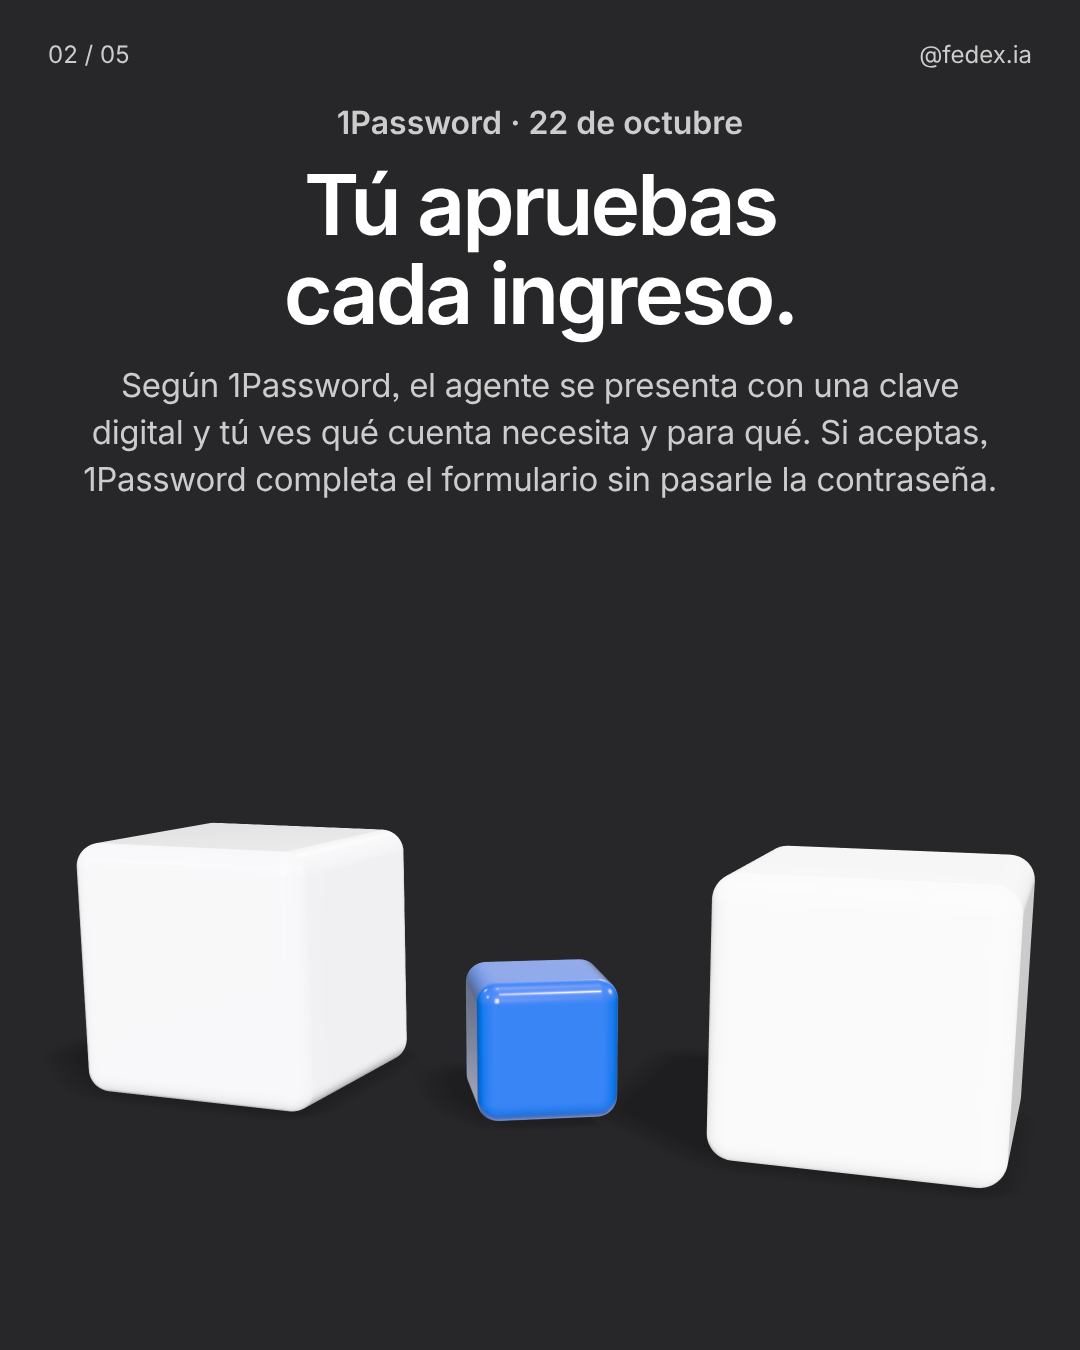
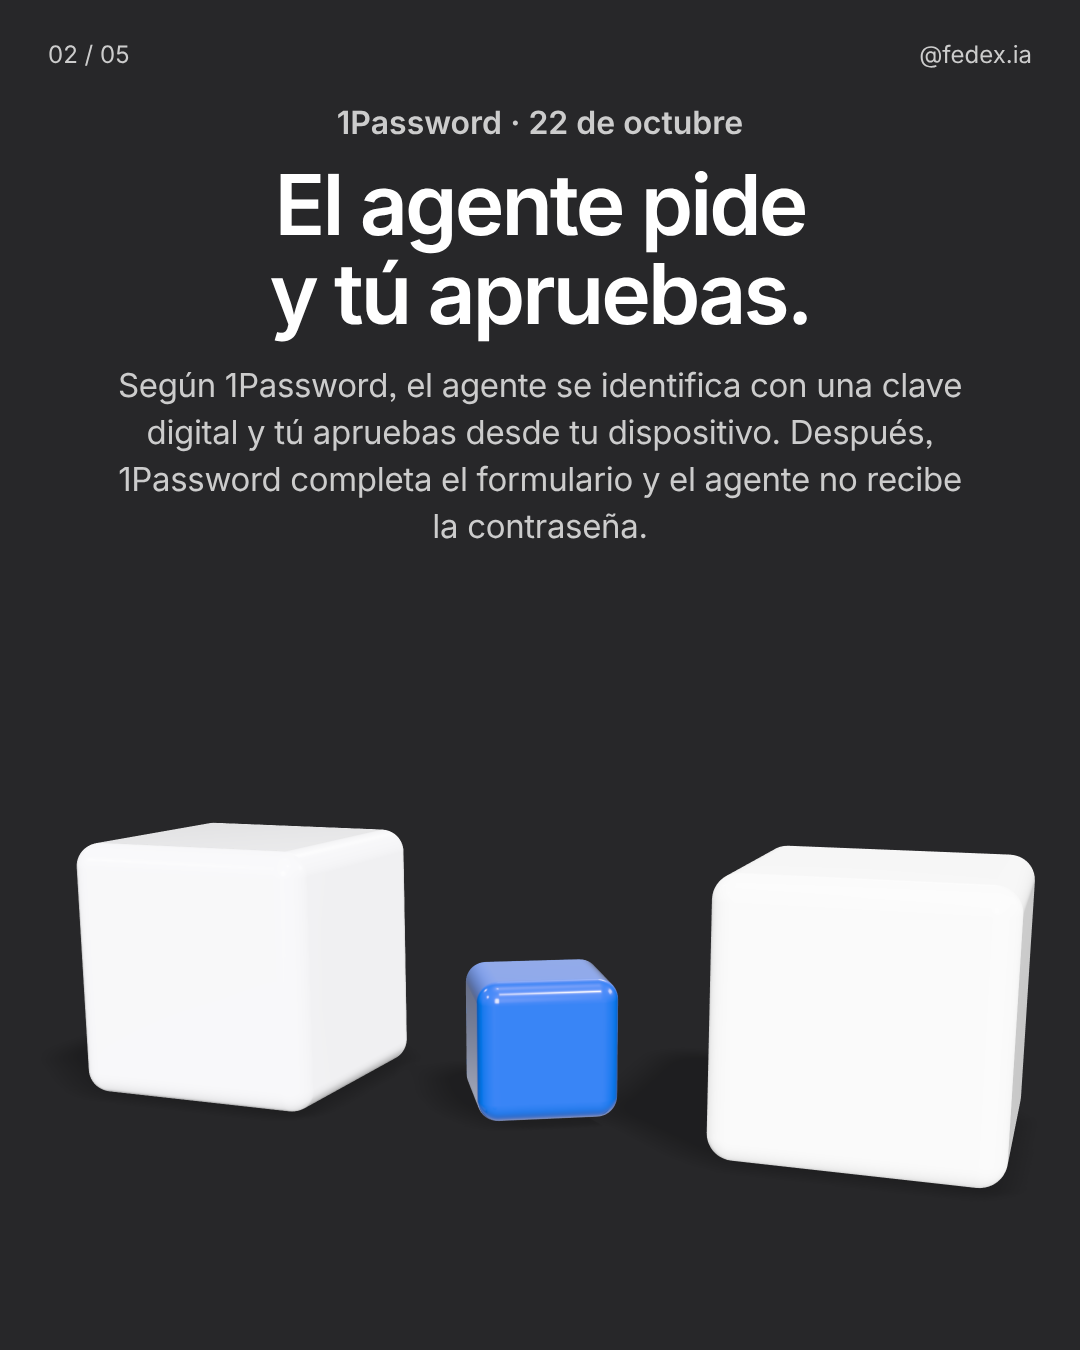
Borrador 2026-10-23: 1Password for Agents, tercera versión del carrusel
Claude-Session: https://claude.ai/code/session_01PpTkk99CTDb4RmEUrdhmY5

Changed region(s): [[0.0917, 0.1244, 0.9167, 0.4044]]

diff --git a/diario/2026-10-23-diario-1password-agentes/copy.md b/diario/2026-10-23-diario-1password-agentes/copy.md
@@ -12,33 +12,33 @@ Estado: pendiente de aprobación
 - Prensa: https://techcrunch.com/2026/10/22/1password-launches-a-way-for-ai-agents-to-log-in-on-your-behalf-without-seeing-your-password/
 
 ## Hooks
-1. Tu agente inicia sesión sin conocer tu clave.
-2. Tú apruebas cada ingreso.
+1. Agentes de IA inician sesión sin tu clave.
+2. El agente pide y tú apruebas.
 
 ## Slides
-1. Portada (fondo blanco). Eyebrow «1Password · 22 de octubre». Titular: «Tu agente inicia sesión sin conocer tu clave.» Bajada: «Lo que lanzó 1Password y lo que no aclaró.» Pastillas: «1Password for Agents» y «Desliza →».
+1. Portada (fondo blanco). Eyebrow «1Password · 22 de octubre». Titular: «Agentes de IA inician sesión sin tu clave.» Bajada: «1Password lanzó 1Password for Agents el 22 de octubre.» Pastillas: «1Password for Agents» y «Desliza →».
    - Objeto 3D: caja fuerte plateada con un disco azul al frente y una esfera perla al lado.
-   - Alt: Ilustración 3D de una caja fuerte plateada con un disco azul al lado de una esfera perla. Texto: Tu agente inicia sesión sin conocer tu clave.
-2. Qué pasó (fondo oscuro). Titular: «Tú apruebas cada ingreso.» Cuerpo: «Según 1Password, el agente se presenta con una clave digital y tú ves qué cuenta necesita y para qué. Si aceptas, 1Password completa el formulario sin pasarle la contraseña.»
+   - Alt: Ilustración 3D de una caja fuerte plateada con un disco azul al lado de una esfera perla. Texto: Agentes de IA inician sesión sin tu clave.
+2. Qué pasó (fondo oscuro). Titular: «El agente pide y tú apruebas.» Cuerpo: «Según 1Password, el agente se identifica con una clave digital y tú apruebas desde tu dispositivo. Después, 1Password completa el formulario y el agente no recibe la contraseña.»
    - Objeto 3D: dos bloques perla enfrentados con un cubo azul en el medio.
-   - Alt: Ilustración 3D de dos bloques perla enfrentados con un cubo azul en el medio. Texto: Tú apruebas cada ingreso.
-3. Disponibilidad (fondo gris). Titular: «Seis agentes, sin precio ni países.» Cuerpo: «Funciona con Muse, Claude Duet, ChatGPT Work, dots, Grok Bot y Town, y vendrán más. El anuncio no especifica en qué países está disponible, ni planes, precio o plataformas.»
+   - Alt: Ilustración 3D de dos bloques perla enfrentados con un cubo azul en el medio. Texto: El agente pide y tú apruebas.
+3. Disponibilidad (fondo gris). Titular: «Seis agentes son compatibles.» Cuerpo: «Muse, Claude Duet, ChatGPT Work, dots, Grok Bot y Town. Aún no hay un precio oficial publicado.»
    - Objeto 3D: seis cilindros en dos filas, cinco grafito y uno azul.
-   - Alt: Ilustración 3D de seis cilindros en dos filas, cinco grises y uno azul. Texto: Seis agentes, sin precio ni países.
-4. Qué significa (fondo oscuro). Titular: «Delegar sin dar tu contraseña.» Cuerpo: «Si un agente te ayuda con tus redes o tus facturas, no hace falta pegarle la clave. Antes de aceptar, mira qué cuenta pide.»
+   - Alt: Ilustración 3D de seis cilindros en dos filas, cinco grises y uno azul. Texto: Seis agentes son compatibles.
+4. Qué significa (fondo oscuro). Titular: «Delegar tareas sin pegar tu clave.» Cuerpo: «Si un agente te ayuda con tus redes o tus facturas, con este sistema no necesitas darle la contraseña. Antes de aprobar, revisa qué cuenta pide.»
    - Objeto 3D: esfera perla dentro de un marco azul sobre una base blanca.
-   - Alt: Ilustración 3D de una esfera perla dentro de un marco azul sobre una base. Texto: Delegar sin dar tu contraseña.
+   - Alt: Ilustración 3D de una esfera perla dentro de un marco azul sobre una base. Texto: Delegar tareas sin pegar tu clave.
 5. Cierre (fondo blanco). Titular: «¿A qué cuenta dejarías entrar a un agente?» Cuerpo: «Guarda el post para tenerlo cuando pruebes uno.» Pastillas: «Seguí a @fedex.ia» y «Guardar». Fuente: 1password.com.
    - Objeto 3D: marcador azul y tarjeta perla (objeto «cierre» del kit).
    - Alt: Ilustración 3D de un marcador azul junto a una tarjeta perla. Texto: ¿A qué cuenta dejarías entrar a un agente?
 
-## Caption para copiar (116 palabras + 5 hashtags)
+## Caption para copiar (122 palabras + 5 hashtags)
 ```text
-1Password presentó el 22 de octubre 1Password for Agents, pensado para que un agente de IA inicie sesión sin conocer tus claves. Según la empresa, el agente se presenta con una clave digital y tú ves qué cuenta necesita y para qué. Si aceptas desde tu dispositivo, 1Password completa el formulario y la contraseña no pasa por el agente.
+1Password lanzó el 22 de octubre 1Password for Agents, un sistema para que los agentes de IA inicien sesión en tus cuentas sin conocer tus contraseñas. Según la empresa, el agente se identifica con una clave digital y tú apruebas el acceso desde tu dispositivo. Después, 1Password completa el formulario y la contraseña no pasa por el agente.
 
-Funciona con Muse, Claude Duet, ChatGPT Work, dots, Grok Bot y Town, y la empresa promete más. No especifica en qué países está disponible, ni precio, planes o plataformas.
+Son compatibles Muse, Claude Duet, ChatGPT Work, dots, Grok Bot y Town, y la empresa dice que vendrán más. Aún no hay un precio oficial publicado, y 1Password no especifica en qué países está disponible.
 
-Si ya delegas tareas en un agente, esto cambia cómo le das acceso. Guarda el post y sigue a @fedex.ia para la noticia de IA de cada día.
+Si delegas tareas en un agente, revisa qué cuenta te pide antes de aprobar. Guarda el post y sigue a @fedex.ia para la noticia de IA de cada día.
 
 #InteligenciaArtificial #NoticiasIA #IAenEspañol #1Password #AgentesIA
 ```
@@ -58,7 +58,7 @@ Fuentes: 1password.com/press/2026/october/1password-for-agents-trust-layer-perso
 |---|---|
 | 01 | Anuncio oficial de 1Password (1password.com) |
 | 02 | Anuncio oficial de 1Password |
-| 03 | Anuncio oficial de 1Password (agentes nombrados y datos no especificados) |
+| 03 | Anuncio oficial de 1Password (agentes nombrados). El anuncio no menciona precio; la slide dice «Aún no hay un precio oficial publicado» |
 | 04 | Anuncio oficial de 1Password; el ejemplo y el consejo son de @fedex.ia |
 | 05 | 1password.com (línea de fuente solo en el cierre) |
 
